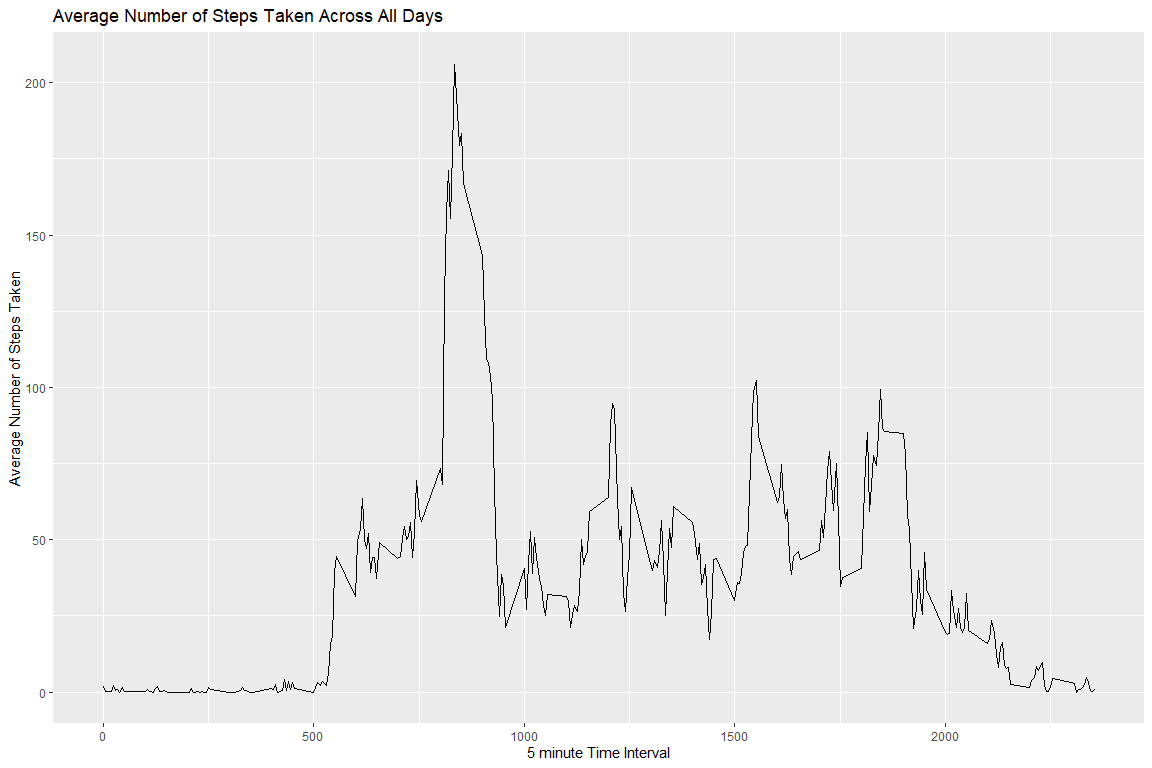
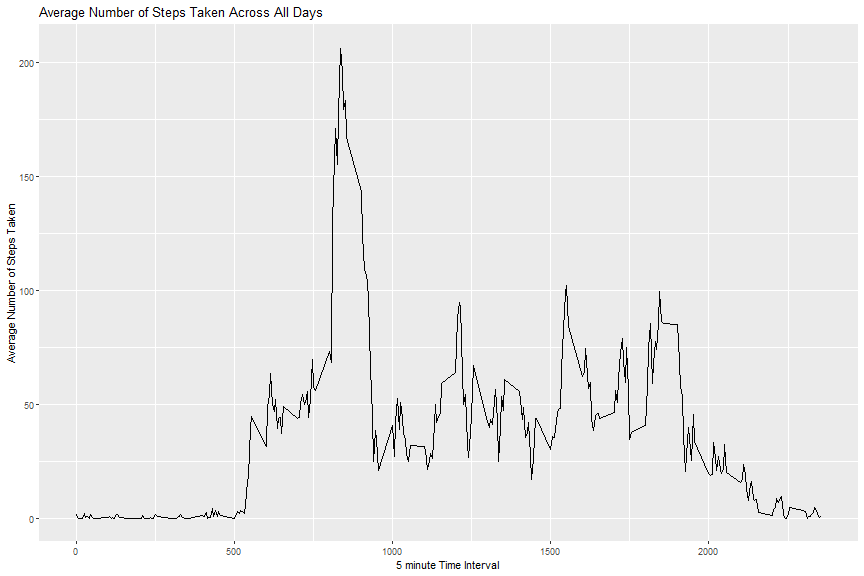
Use knit() to update md figures.

diff --git a/PA1_template.md b/PA1_template.md
@@ -60,7 +60,7 @@ Histogram <- ggplot(daily_steps, aes(x=steps)) +
 Histogram
 ```
 
-![](Figs/Histogram-1.png)<!-- -->
+![plot of chunk Histogram](Figs/Histogram-1.png)
 
 The mean of the total number of steps taken per day is **10766.19**.  
 The median of the total number of steps taken per day is **10765**.    
@@ -83,7 +83,7 @@ ggplot(interval_steps,aes(x=interval, y=steps)) +
            title = "Average Number of Steps Taken Across All Days")
 ```
 
-![](Figs/Time-Series-1.png)<!-- -->
+![plot of chunk Time-Series](Figs/Time-Series-1.png)
 
 The 5-minute interval that averages the most number of steps across all days is 
 **835** with 
@@ -184,7 +184,7 @@ Imputed_Histogram <- ggplot(imputed_daily_steps, aes(x=steps)) +
 grid.arrange(Histogram, Imputed_Histogram, nrow = 1)
 ```
 
-![](Figs/Imputed_Histogram-1.png)<!-- -->
+![plot of chunk Imputed_Histogram](Figs/Imputed_Histogram-1.png)
 
 The mean of the total number of steps taken per day of the imputed data is 
 **9503.87**. The original non-imputed 
@@ -221,7 +221,7 @@ ggplot(weekday_data,aes(x=interval, y=steps)) +
            title = "Average Number of Steps Taken Across All Days")
 ```
 
-![](Figs/Weekday_Time_Series-1.png)<!-- -->
+![plot of chunk Weekday_Time_Series](Figs/Weekday_Time_Series-1.png)
 
 There appears to be a higher peak during the weekday mornings, but the weekends 
 appear to have a bit higher sustained peaks throughout the day. The weekday also 
